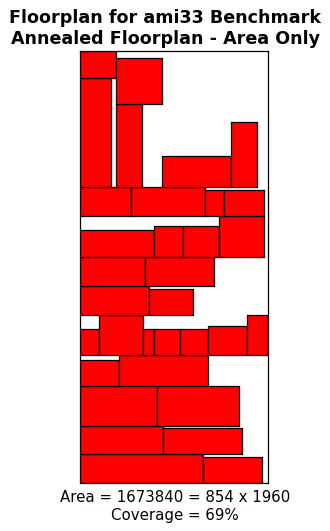
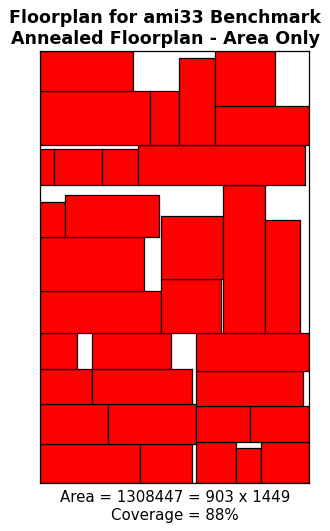
Updated results with longer running annealer

diff --git a/finalReport.py b/finalReport.py
@@ -7,8 +7,8 @@ import utils
 import numpy as np
 from copy import copy, deepcopy
 
-annealingParameters = classes.AnnealingParameters(100,.85,5,.05,1,1)
-
+#annealingParameters = classes.AnnealingParameters(100,.85,5,.05,1,1)
+annealingParameters = classes.AnnealingParameters(100,.9,5,.05,100,1)
 
 def analyzeAllBenchmarks():
 	for dataset in utils.benchmarks:
@@ -21,7 +21,7 @@ def analyzeAllBenchmarks():
 		# Anneal - Consider area and connections
 		length = len(rectangles)
 		lambdas = copy(matrix)
-		costParameters = classes.CostParameters(np.ones((length,length)),0.5,1,lambdas,dictionary)
+		costParameters = classes.CostParameters(np.ones((length,length)),0.5,2,lambdas,dictionary)
 
 		# Curry cost function
 		def newCost(inRoot):
